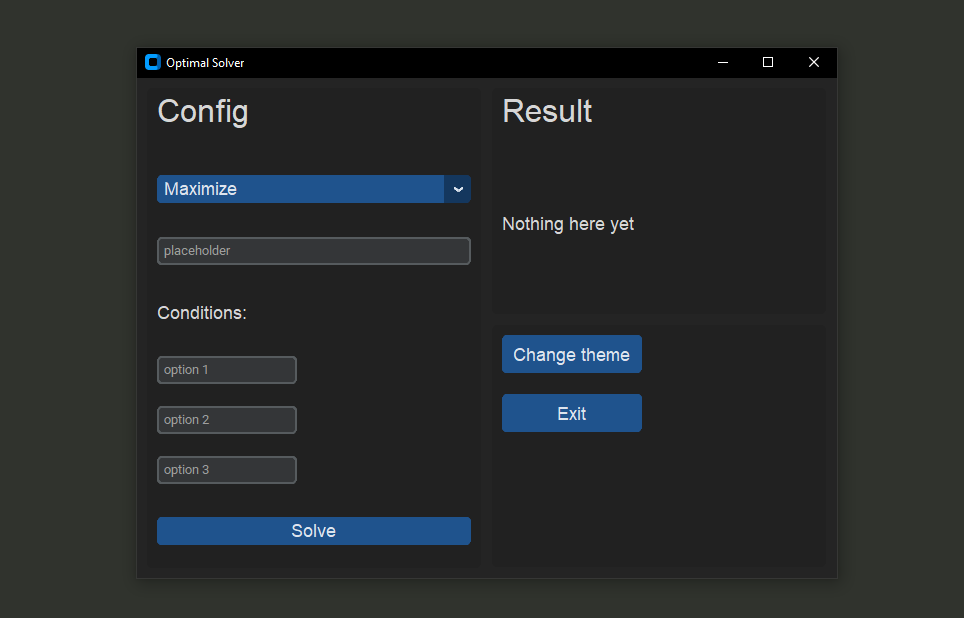
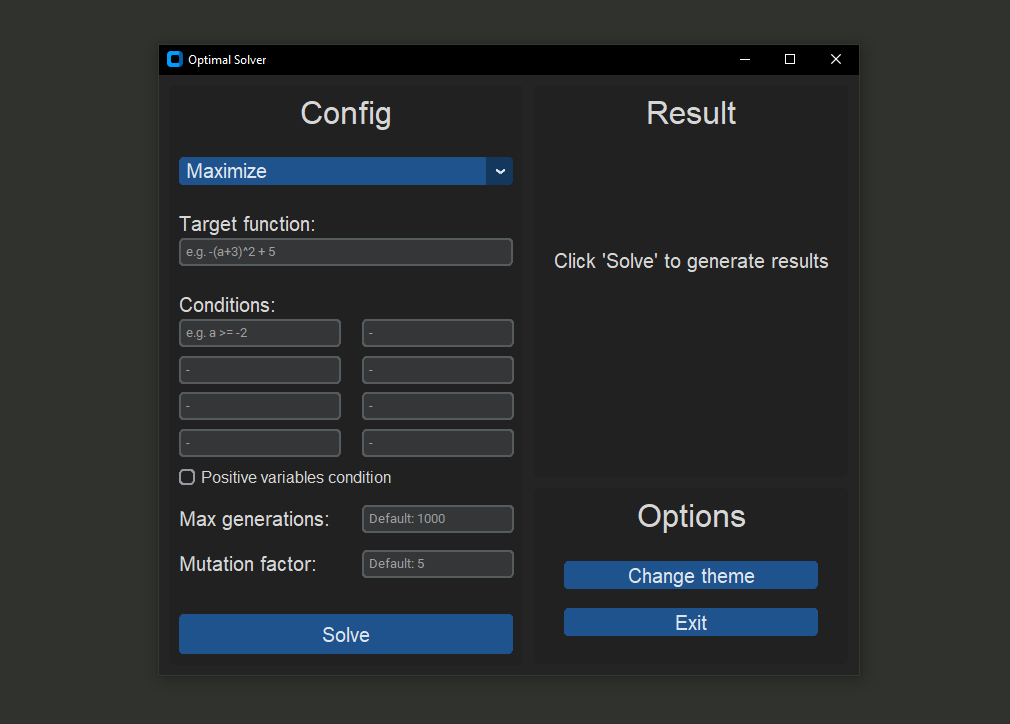
more input options, improve GUI

Changed region(s): [[0.1245, 0.0615, 0.8714, 0.7994], [0.1556, 0.8301, 0.529, 0.9223], [0.5602, 0.7686, 0.8091, 0.8916]]

diff --git a/frames/input_frame.py b/frames/input_frame.py
@@ -12,34 +12,45 @@ class InputFrame(customtkinter.CTkFrame):
     def __init__(self, master):
         super().__init__(master)
         
-        self.grid_columnconfigure((0), weight=1)
-        self.grid_rowconfigure((0, 1, 3, 9), weight=10)
-        self.grid_rowconfigure((2, 4, 5, 6, 7, 8), weight=5)
+        self.grid_columnconfigure((0,1), weight=1)
+        self.grid_rowconfigure((0, 1, 3, 10, 11, 12), weight=10)
+        self.grid_rowconfigure((2, 4, 5, 6, 7, 8, 9), weight=5)
         
         self.frame_label = customtkinter.CTkLabel(self, text="Config", font=fonts.ARIAL_H1)
-        self.frame_label.grid(row=0, column=0, padx=10, pady=10, sticky="nw")
+        self.frame_label.grid(row=0, column=0, padx=10, pady=10, sticky="nwe", columnspan=2)
 
         self.direction_opt_menu = customtkinter.CTkOptionMenu(self, values=["Maximize", "Minimize"], font=fonts.ARIAL_DEFAULT, dropdown_font=fonts.ARIAL_DEFAULT)
-        self.direction_opt_menu.grid(row=1, column=0, padx=10, pady=0, sticky="nwe")
+        self.direction_opt_menu.grid(row=1, column=0, padx=10, pady=0, sticky="nwe", columnspan=2)
         
-        self.frame_label2 = customtkinter.CTkLabel(self, text="Target function:", font=fonts.ARIAL_DEFAULT)
-        self.frame_label2.grid(row=2, column=0, padx=10, pady=0, sticky="sw")
+        self.target_label = customtkinter.CTkLabel(self, text="Target function:", font=fonts.ARIAL_DEFAULT)
+        self.target_label.grid(row=2, column=0, padx=10, pady=0, sticky="sw", columnspan=2)
         self.target_func_entry = customtkinter.CTkEntry(self, placeholder_text="e.g. -(a+3)^2 + 5")
-        self.target_func_entry.grid(row=3, column=0, padx=10, pady=0, sticky="nwe")
+        self.target_func_entry.grid(row=3, column=0, padx=10, pady=0, sticky="nwe", columnspan=2)
         
         self.conditions_label = customtkinter.CTkLabel(self, text="Conditions:", font=fonts.ARIAL_DEFAULT)
         self.conditions_label.grid(row=4, column=0, padx=10, pady=0, sticky="sw")
-        self.cond_entry_1 = customtkinter.CTkEntry(self, placeholder_text="e.g. a>=-2")
-        self.cond_entry_1.grid(row=5, column=0, padx=10, pady=0, sticky="nw")
-        self.cond_entry_2 = customtkinter.CTkEntry(self, placeholder_text="-")
-        self.cond_entry_2.grid(row=6, column=0, padx=10, pady=0, sticky="nw")
-        self.cond_entry_3 = customtkinter.CTkEntry(self, placeholder_text="-")
-        self.cond_entry_3.grid(row=7, column=0, padx=10, pady=0, sticky="nw")
-        self.cond_entry_4 = customtkinter.CTkEntry(self, placeholder_text="-")
-        self.cond_entry_4.grid(row=8, column=0, padx=10, pady=0, sticky="nw")
+        self.cond_entry_1 = customtkinter.CTkEntry(self, placeholder_text="e.g. a >= -2")
+        self.cond_entry_1.grid(row=5, column=0, padx=10, pady=0, sticky="nwe")
+        for i in range(2,9):
+            var_name = f"cond_entry_{i}"
+            exec(f"{var_name} = customtkinter.CTkEntry(self, placeholder_text=\"-\")")
+            exec(f"{var_name}.grid(row={i+4 if i<5 else i}, column={0 if i<5 else 1}, padx=10, pady=0, sticky=\"nwe\")")
+            
+        self.variables_positive_checkbox = customtkinter.CTkCheckBox(self, text="Positive variables condition", font=fonts.ARIAL_DEFAULT_16, checkbox_height=16, checkbox_width=16, border_width=2)
+        self.variables_positive_checkbox.grid(row=9, column=0, padx=10, pady=0, sticky="nw", columnspan=2)
+        
+        self.generation_count_label = customtkinter.CTkLabel(self, text="Max generations:", font=fonts.ARIAL_DEFAULT)
+        self.generation_count_label.grid(row=10, column=0, padx=10, pady=0, sticky="w")
+        self.generation_count_entry = customtkinter.CTkEntry(self, placeholder_text="Default: 1000")
+        self.generation_count_entry.grid(row=10, column=1, padx=10, pady=0, sticky="we")
+        
+        self.mutation_factor_label = customtkinter.CTkLabel(self, text="Mutation factor:", font=fonts.ARIAL_DEFAULT)
+        self.mutation_factor_label.grid(row=11, column=0, padx=10, pady=0, sticky="w")
+        self.mutation_factor_entry = customtkinter.CTkEntry(self, placeholder_text="Default: 5")
+        self.mutation_factor_entry.grid(row=11, column=1, padx=10, pady=0, sticky="we")
         
         self.start_btn = customtkinter.CTkButton(self, text="Solve", command=self.pass_input, font=fonts.ARIAL_DEFAULT, border_spacing=8)
-        self.start_btn.grid(row=9, column=0, padx=10, pady=10, sticky="swe")
+        self.start_btn.grid(row=12, column=0, padx=10, pady=10, sticky="swe", columnspan=2)
         
     def pass_input(self):
         self.maximize = True if self.direction_opt_menu.get() == "Maximize" else False

diff --git a/frames/options_frame.py b/frames/options_frame.py
@@ -6,13 +6,16 @@ class OptionsFrame(customtkinter.CTkFrame):
     def __init__(self, master):
         super().__init__(master)
         
+        self.grid_columnconfigure(0, weight=1)
+        self.grid_rowconfigure((0, 1, 2), weight=1)
+        
         self.frame_label = customtkinter.CTkLabel(self, text="Options", font=fonts.ARIAL_H1)
-        self.frame_label.grid(row=0, column=0, padx=10, pady=10, sticky="nw")
+        self.frame_label.grid(row=0, column=0, padx=10, pady=10, sticky="nwe")
         
         self.theme_btn = customtkinter.CTkButton(self, text="Change theme", command=self.change_theme, font=fonts.ARIAL_DEFAULT)
-        self.theme_btn.grid(row=1, column=0, padx=10, pady=10, sticky="nw")
+        self.theme_btn.grid(row=1, column=0, padx=30, pady=0, sticky="nwe")
         self.exit_btn = customtkinter.CTkButton(self, text="Exit", command=self.exit_app, font=fonts.ARIAL_DEFAULT)
-        self.exit_btn.grid(row=2, column=0, padx=10, pady=10, sticky="nw")
+        self.exit_btn.grid(row=2, column=0, padx=30, pady=(0,10), sticky="nwe")
         
     def change_theme(self):
         if customtkinter.AppearanceModeTracker.appearance_mode:

diff --git a/frames/result_frame.py b/frames/result_frame.py
@@ -5,11 +5,14 @@ class ResultFrame(customtkinter.CTkFrame):
     def __init__(self, master):
         super().__init__(master)
         
-        self.frame_label = customtkinter.CTkLabel(self, text="Result", font=fonts.ARIAL_H1)
-        self.frame_label.grid(row=0, column=0, padx=10, pady=10, sticky="nw")
+        self.grid_columnconfigure(0, weight=1)
+        self.grid_rowconfigure((0, 1, 2), weight=1)
         
-        self.temp_label = customtkinter.CTkLabel(self, text="Nothing here yet", font=fonts.ARIAL_DEFAULT)
-        self.temp_label.grid(row=1, column=0, padx=10, pady=10, sticky="nw")
+        self.frame_label = customtkinter.CTkLabel(self, text="Result", font=fonts.ARIAL_H1)
+        self.frame_label.grid(row=0, column=0, padx=10, pady=10, sticky="nwe")
+        
+        self.temp_label = customtkinter.CTkLabel(self, text="Click 'Solve' to generate results", font=fonts.ARIAL_DEFAULT)
+        self.temp_label.grid(row=1, column=0, padx=10, pady=10, sticky="nwe")
         
     def show_results(self, result):
         self.temp_label.configure(text=result)

diff --git a/optimization-solver.py b/optimization-solver.py
@@ -11,13 +11,13 @@ class App(customtkinter.CTk):
         customtkinter.set_appearance_mode("System")
         customtkinter.set_default_color_theme("dark-blue")
 
-        self.geometry("700x500")
+        self.geometry("700x600")
         self.title("Optimal Solver")
         
-        self.grid_columnconfigure(0, weight=60)
+        self.grid_columnconfigure(0, weight=50)
         self.grid_columnconfigure(1, weight=40)
-        self.grid_rowconfigure((0, 1), weight=70)
-        self.grid_rowconfigure(2, weight=30)
+        self.grid_rowconfigure((0, 1), weight=80)
+        self.grid_rowconfigure(2, weight=20)
             
         self.config_frame = InputFrame(self)
         self.config_frame.grid(row=0, column=0, padx=(10, 0), pady=10, sticky="nswe", rowspan=3)

diff --git a/calculation_script.py b/calculation_script.py
@@ -1,14 +1,14 @@
 from sympy import symbols, sympify
 
 def solve(maximize, target_func_string, condition_1_string):
-    target_func_string = target_func_string.replace(' ', '')
-    condition_1_string = condition_1_string.replace(' ', '')
-    
     variables_set = set(char.lower() for char in target_func_string if char.isalpha())
-    variables = symbols(variables_set)
-    values = {var: 1 for var in variables}
+    x_variables = symbols(variables_set)
+    x_values = {var: 1 for var in x_variables}
     
     target_func = sympify(target_func_string)
     
-    return f"a=1, z={target_func.subs(values)}"
-    #return f"bla {maximize}"
+    return f"a=1, z={target_func.subs(x_values)}"
+
+def calc_target_func(target_func, x_values):
+    
+    return

diff --git a/res/font_constants.py b/res/font_constants.py
@@ -1,2 +1,3 @@
 ARIAL_H1 = ('Arial', 32, 'normal')
-ARIAL_DEFAULT = ('Arial', 18, 'normal')
+ARIAL_DEFAULT = ('Arial', 20, 'normal')
+ARIAL_DEFAULT_16 = ('Arial', 16, 'normal')
